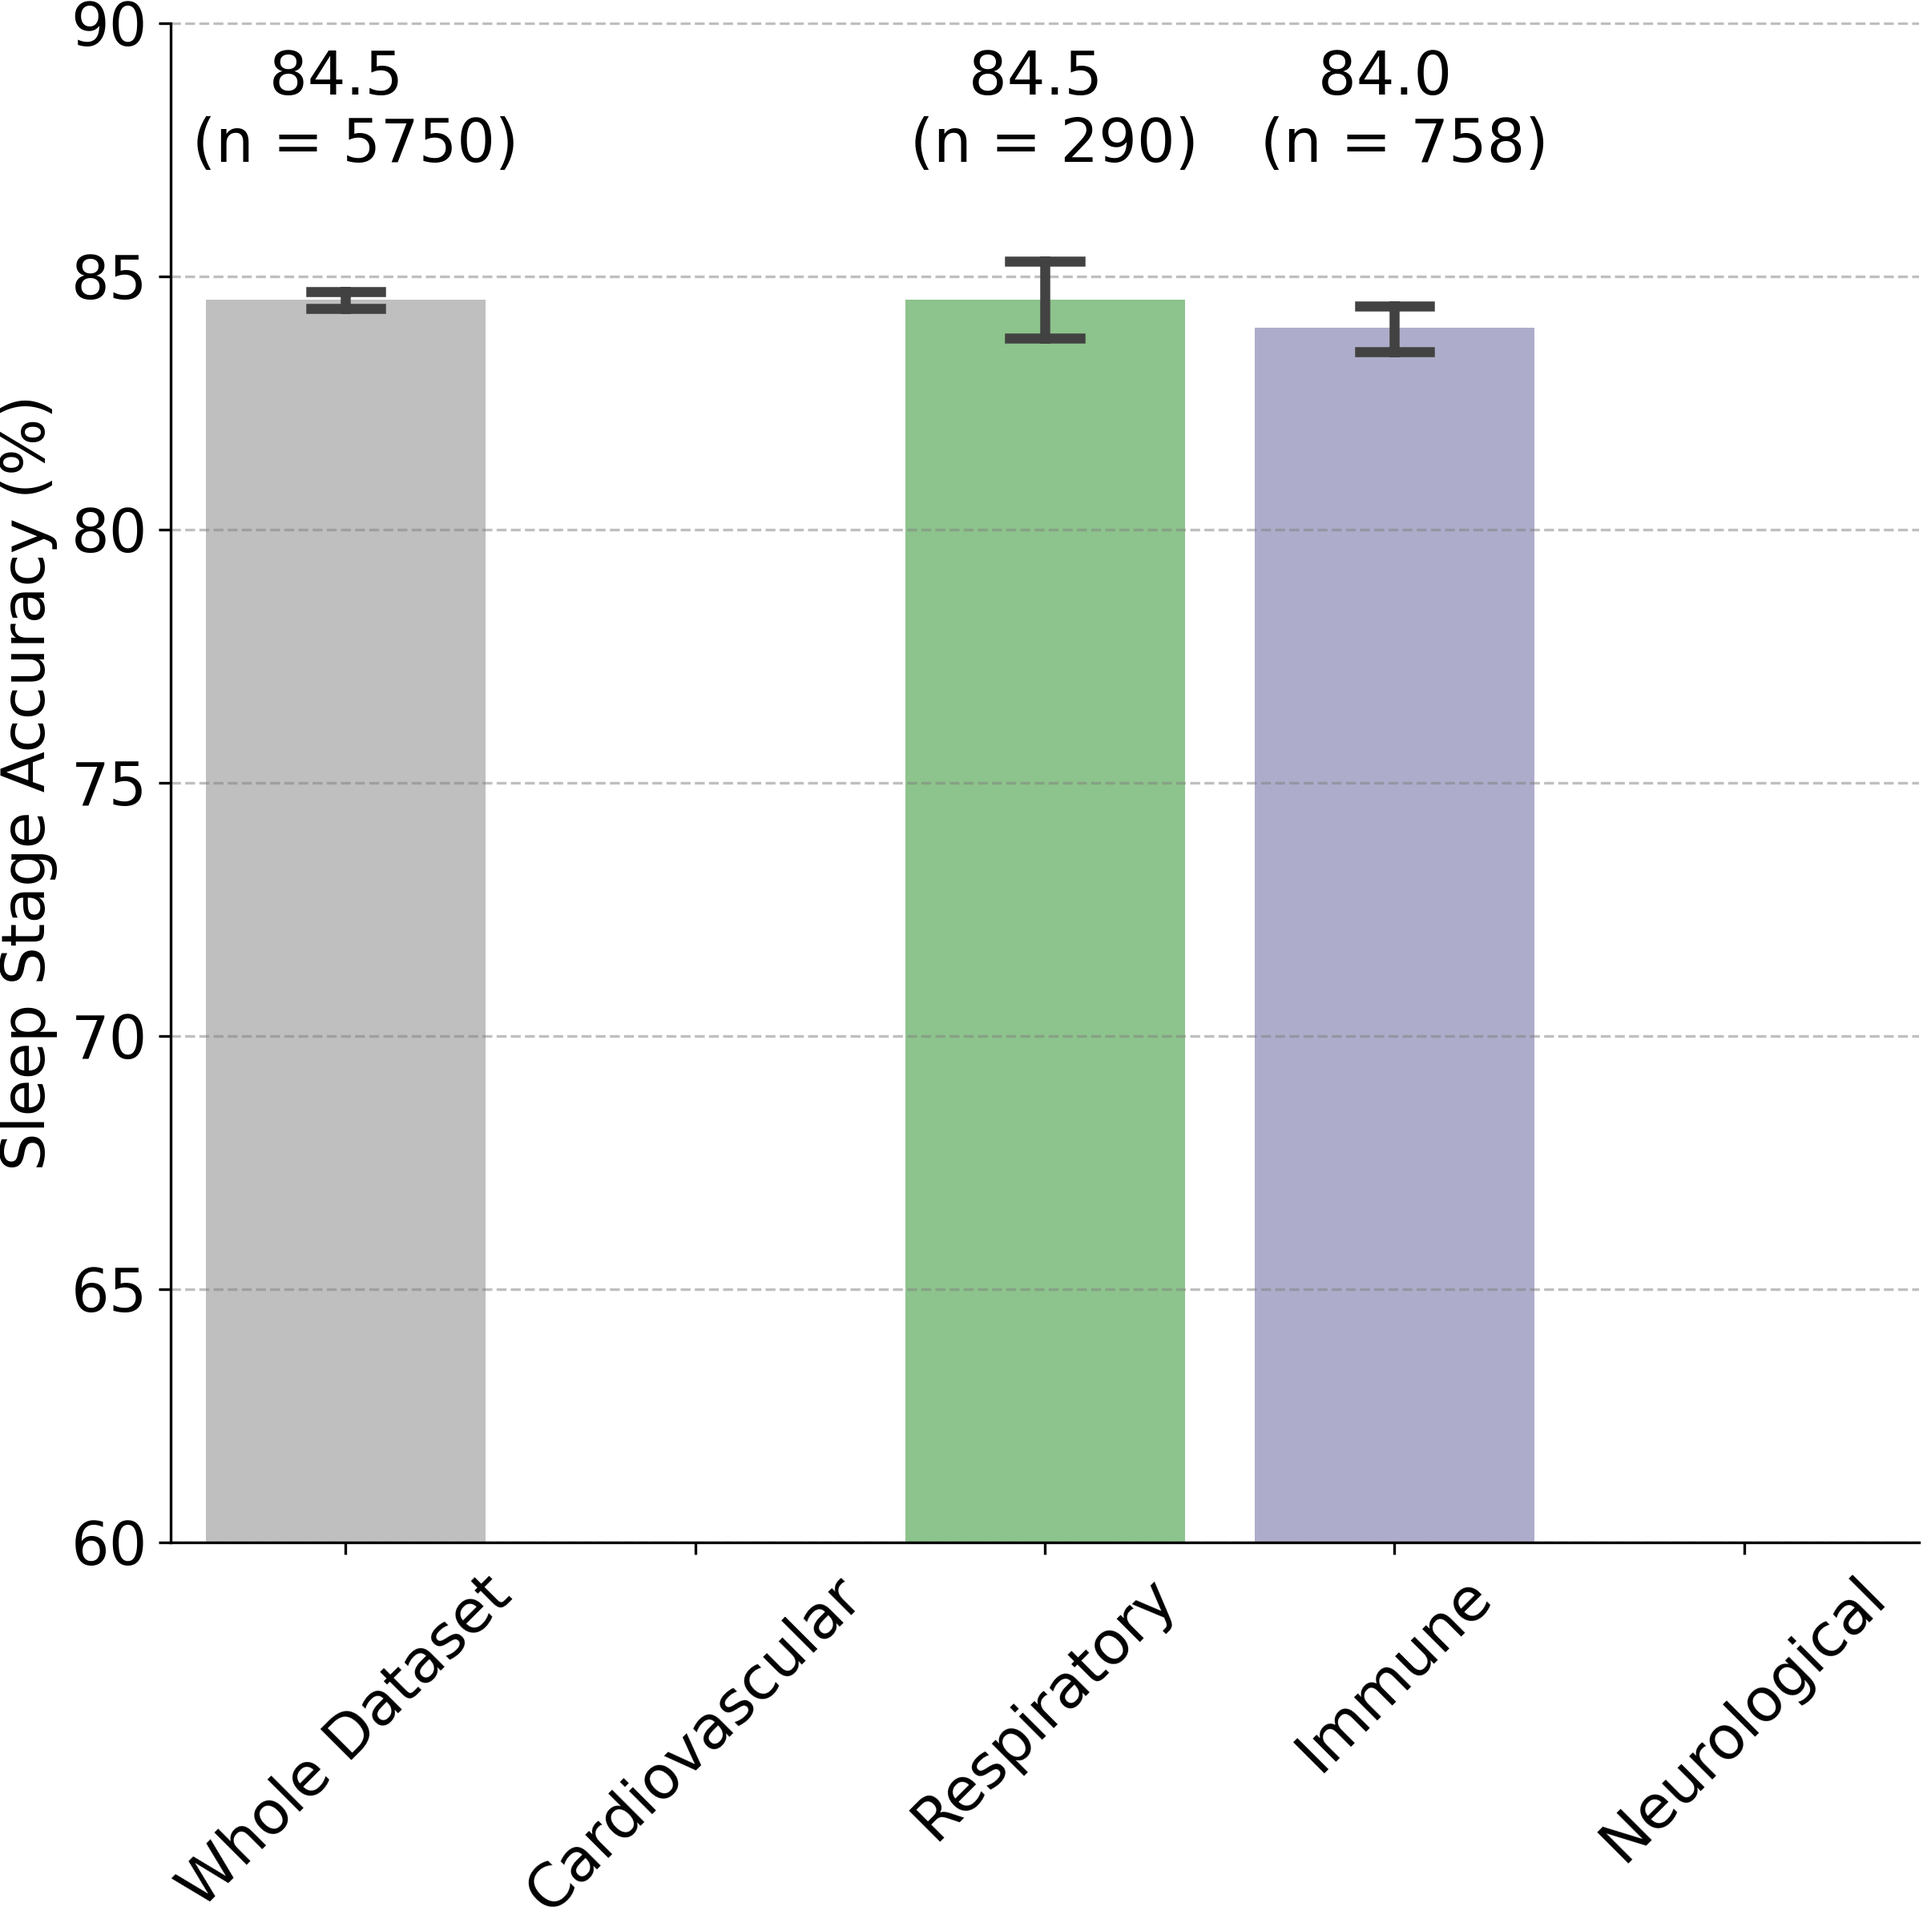
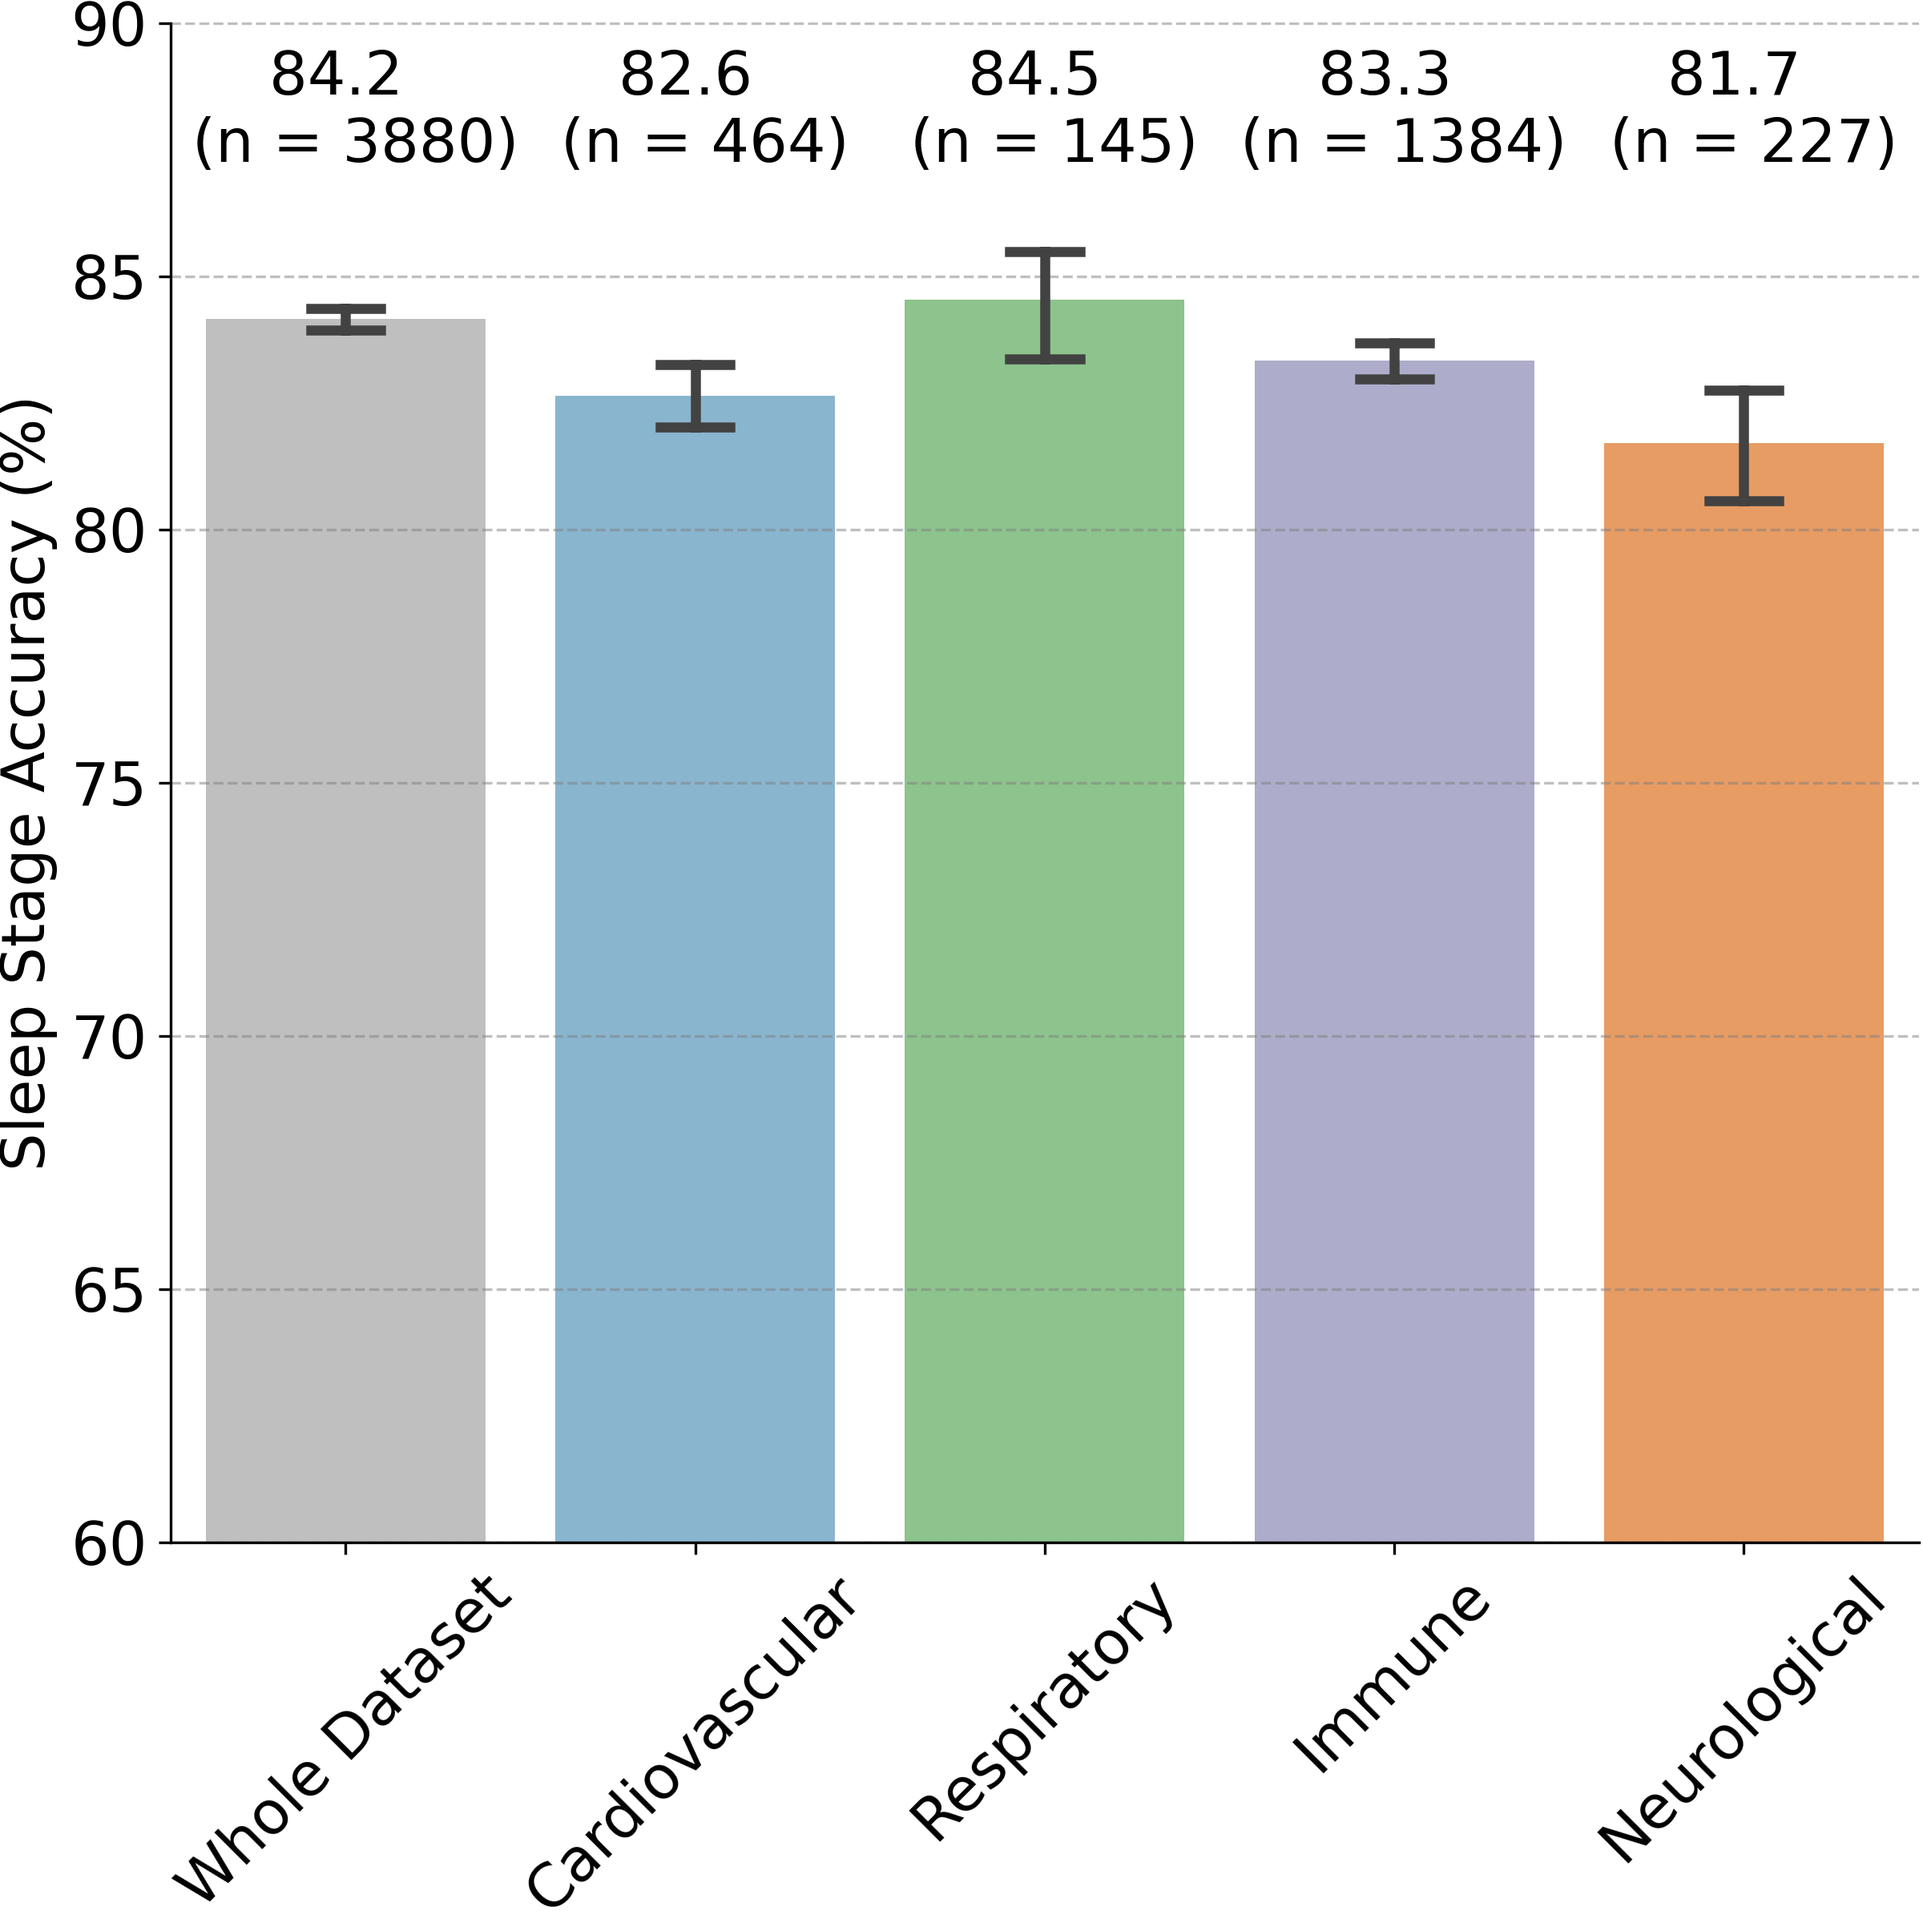
fig4

diff --git a/visualizations/fig4a.py b/visualizations/fig4a.py
@@ -7,8 +7,11 @@ import seaborn as sns
 from sklearn.metrics import accuracy_score
 from tqdm import tqdm
 
-ds_list = ["mgh", "shhs", "wsc", "mros"]
-ch_list = ["rf", "thorax", "thorax", "thorax"]
+# ds_list = ["mgh", "shhs", "wsc", "mros"]
+# ch_list = ["rf", "thorax", "thorax", "thorax"]
+
+ds_list = ["shhs1"]
+ch_list = ["thorax"]
 
 ds_ch_list = zip(ds_list, ch_list)
 
@@ -29,16 +32,28 @@ for ds, ch in ds_ch_list:
     # load the csv, where the row/index name is "uid"
     if ds == "mgh":
         visits = [1]
-        metrics_csv_path = os.path.join(results_dir, "%s_%s.csv"%(ds, ch))
+        metrics_csv_path_root = os.path.join(results_dir, "%s_%s.csv"%(ds, ch))
     elif ds == "wsc":
         visits = [1]
-        metrics_csv_path = os.path.join(results_dir, "%s_%s.csv"%(ds, ch))
+        metrics_csv_path_root = os.path.join(results_dir, "%s_%s.csv"%(ds, ch))
     elif ds == "shhs":
         visits = [1, 2]
-        metrics_csv_path = os.path.join(results_dir, "shhs{0}_%s.csv"%(ch))
+        metrics_csv_path_root = os.path.join(results_dir, "shhs{0}_%s.csv"%(ch))
+    elif ds == "shhs1":
+        visits = [1]
+        metrics_csv_path_root = os.path.join(results_dir, "shhs1_%s.csv"%(ch))
+    elif ds == "shhs2":
+        visits = [2]
+        metrics_csv_path_root = os.path.join(results_dir, "shhs2_%s.csv"%(ch))
     elif ds == "mros":
         visits = [1, 2]
-        metrics_csv_path = os.path.join(results_dir, "mros{0}_%s.csv"%(ch))
+        metrics_csv_path_root = os.path.join(results_dir, "mros{0}_%s.csv"%(ch))
+    elif ds == "mros1":
+        visits = [1]
+        metrics_csv_path_root = os.path.join(results_dir, "mros1_%s.csv"%(ch))
+    elif ds == "mros2":
+        visits = [2]
+        metrics_csv_path_root = os.path.join(results_dir, "mros2_%s.csv"%(ch))
     else:
         assert False
 
@@ -50,11 +65,9 @@ for ds, ch in ds_ch_list:
 
     for visit in visits:
         if len(visits) > 1:
-            metrics_csv_path = metrics_csv_path.format(visit)
-            ds_with_visit = ds + str(visit)
+            metrics_csv_path = metrics_csv_path_root.format(visit)
         else:
-            metrics_csv_path = metrics_csv_path
-            ds_with_visit = ds
+            metrics_csv_path = metrics_csv_path_root
 
         metrics_csv = pd.read_csv(metrics_csv_path)
         metrics_csv_list.append(metrics_csv)
